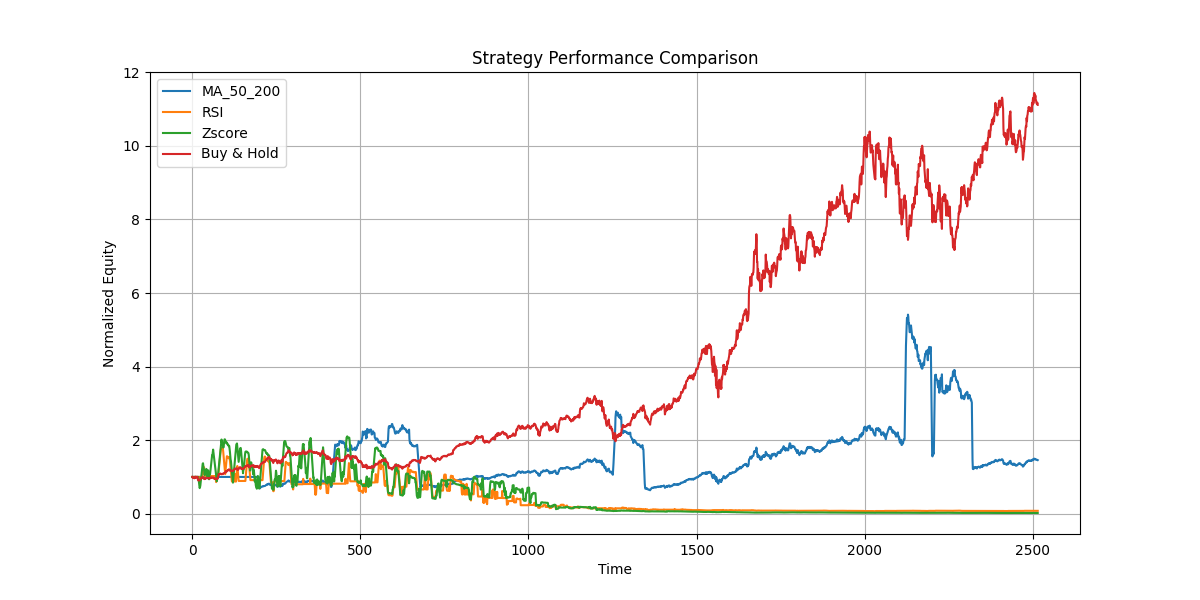
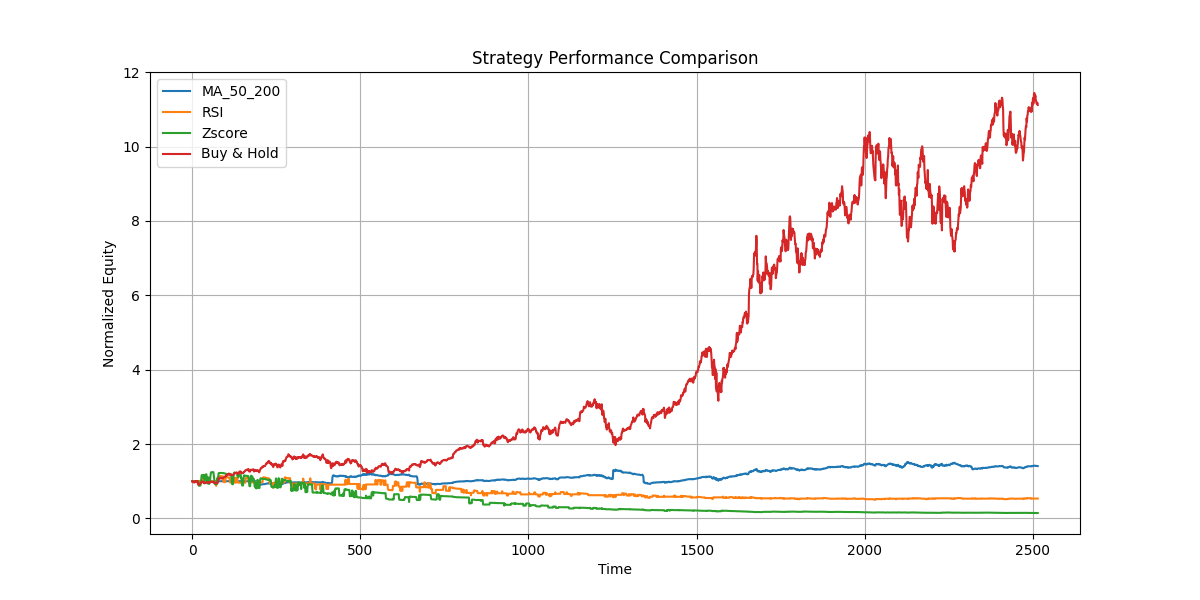
improved strategies and better signal handling

diff --git a/core/backtest_engine.py b/core/backtest_engine.py
@@ -1,4 +1,4 @@
-from config.config import TRANSACTION_COST
+from config.config import TRANSACTION_COST,INITIAL_CASH
 import numpy as np
 
 class BacktestEngine:
@@ -23,47 +23,54 @@ class BacktestEngine:
             current_data = self.data.iloc[:i+1]
             price = current_data['close'].iloc[-1]
             
+            if not np.isfinite(price):
+                continue
+            
             for name,strategy in self.strategies.items():
-        
-                signal=strategy.generate_signal(current_data)
                 portfolio = self.portfolios[name]
+                
+                signal = strategy.generate_signal(current_data)
                 order = self.signal_handler.generate_order(
                     signal, 
                     portfolio,
                     price
                 )
-                
-                #avoids micro orders that can cause issues in execution and performance metrics
-                if abs(order) < 1e-6:
-                    order = 0.0
-                    
-                order = np.clip(order,-max_order,max_order)
-                old_pos = portfolio.position
-                
-                if not np.isfinite(price):
-                    continue
                 if not np.isfinite(order):
                     order = 0.0
+                order = np.clip(order,-1e3,1e3)
                 
+                target_position=portfolio.position + order
+                equity = portfolio.cash + portfolio.position * price
                 
+        
+                max_exposure = 0.3 * equity
+                max_position = max_exposure / price if price != 0 else 0.0
+                
+                target_position = np.clip(target_position,-max_position,max_position)
+                order = target_position - portfolio.position
+                
+                         
                 # Transaction cost
                 cost = abs(order) * price * TRANSACTION_COST
                 
                 # Execute order
                 fill_price = self.execution.execute_order(order, price)
                 
+                
                 #update portfolio
-                portfolio.update(order, fill_price, cost)
-                
-                new_pos = portfolio.position
-                
-            
-                #Equity curve and turnover
+                portfolio.update(order,fill_price,cost)
                 equity = portfolio.cash + portfolio.position * price
-                if not np.isfinite(equity) or equity <= 0:
-                    return 0.0
+                equity = max(equity,1e-8)
                 
-                turnover = abs(new_pos - old_pos)*price /equity
+                leverage = abs(portfolio.position * price) /equity
+                if leverage >1.0:
+                    scale = 1.0 /leverage
+                    portfolio.position *= scale
+                    
+                #Equity curve and turnover
+                new_equity = portfolio.cash + portfolio.position*price
+                turnover = abs(order)*price /equity
+                
                 
                 turnover_curve[name].append(turnover)
                 equity_curve[name].append(equity)

diff --git a/signals/signal_handler.py b/signals/signal_handler.py
@@ -1,11 +1,13 @@
 import numpy as np
+
 class SignalHandler:
-    def __init__(self, fraction=0.9):
+    def __init__(self, fraction=0.2, max_shares=1e4):
         self.fraction = fraction
+        self.max_shares = max_shares
 
     def generate_order(self, signal, portfolio, price):
-        # --- normalize signal FIRST ---
-        max_shares = 1e4  # cap to avoid extreme orders
+
+        # 1. Normalize signal
         if isinstance(signal, str):
             signal = signal.strip().upper()
             if signal == "BUY":
@@ -20,15 +22,41 @@ class SignalHandler:
         except (TypeError, ValueError):
             signal = 0.0
 
-        # --- compute current equity ---
+        if not np.isfinite(signal):
+            signal = 0.0
+
+        
+        # 2. Compute equity safely
+        
         equity = portfolio.cash + portfolio.position * price
 
-        # --- target position based on capital ---
-        target_value = signal * equity * self.fraction
-        target_position = target_value / price
-        target_position = np.clip(target_position, -max_shares, max_shares)
+        if not np.isfinite(equity) or equity <= 0:
+            return 0.0
 
-        # --- order = change needed ---
+        # 3. Volatility estimate (simple proxy)
+        # fallback if no volatility tracking yet
+        vol_proxy = abs(portfolio.position * price) / (equity + 1e-9)
+        vol_proxy = max(vol_proxy, 0.05)  # prevent division blowups
+
+        
+        # 4. Risk-scaled position sizing
+        risk_scaled_equity = equity * self.fraction / vol_proxy
+
+        target_value = signal * risk_scaled_equity
+        target_position = target_value / price
+
+        # 5. Hard caps (safety layer)
+        target_position = np.clip(
+            target_position,
+            -self.max_shares,
+            self.max_shares
+        )
+
+        # 6. Generate order
         order = target_position - portfolio.position
+
+        # 7. Final safety clamp
+        if not np.isfinite(order):
+            return 0.0
 
         return order

diff --git a/strategies/moving_average.py b/strategies/moving_average.py
@@ -5,20 +5,29 @@ class MovingAverageStrategy(BaseStrategy):
     def __init__(self, short_window, long_window):
         self.short_window = short_window
         self.long_window = long_window
-        
-    def generate_signal(self,data):
+
+    def generate_signal(self, data):
         if len(data) < self.long_window:
-            return 0
-        
-        short_ma = data['close'].rolling(self.short_window).mean().iloc[-1]
-        long_ma = data['close'].rolling(self.long_window).mean().iloc[-1]
-        
-        if np.isnan(short_ma) or np.isnan(long_ma):
-            return 0
-        
-        if short_ma > long_ma:
-            return 1
-        elif short_ma < long_ma:
-            return -1
-        else:
-            return 0
+            return 0.0
+
+        prices = data['close']
+
+        short_ma = prices.rolling(self.short_window).mean().iloc[-1]
+        long_ma = prices.rolling(self.long_window).mean().iloc[-1]
+
+        if np.isnan(short_ma) or np.isnan(long_ma) or long_ma == 0:
+            return 0.0
+
+        # normalize DIFFERENCE by volatility proxy
+        returns = prices.pct_change().dropna()
+        vol = returns.std()
+
+        if vol == 0 or np.isnan(vol):
+            return 0.0
+
+        signal = (short_ma - long_ma) / (long_ma * vol)
+
+        # squash into stable range [-1, 1]
+        signal = np.tanh(signal)
+
+        return float(signal)
